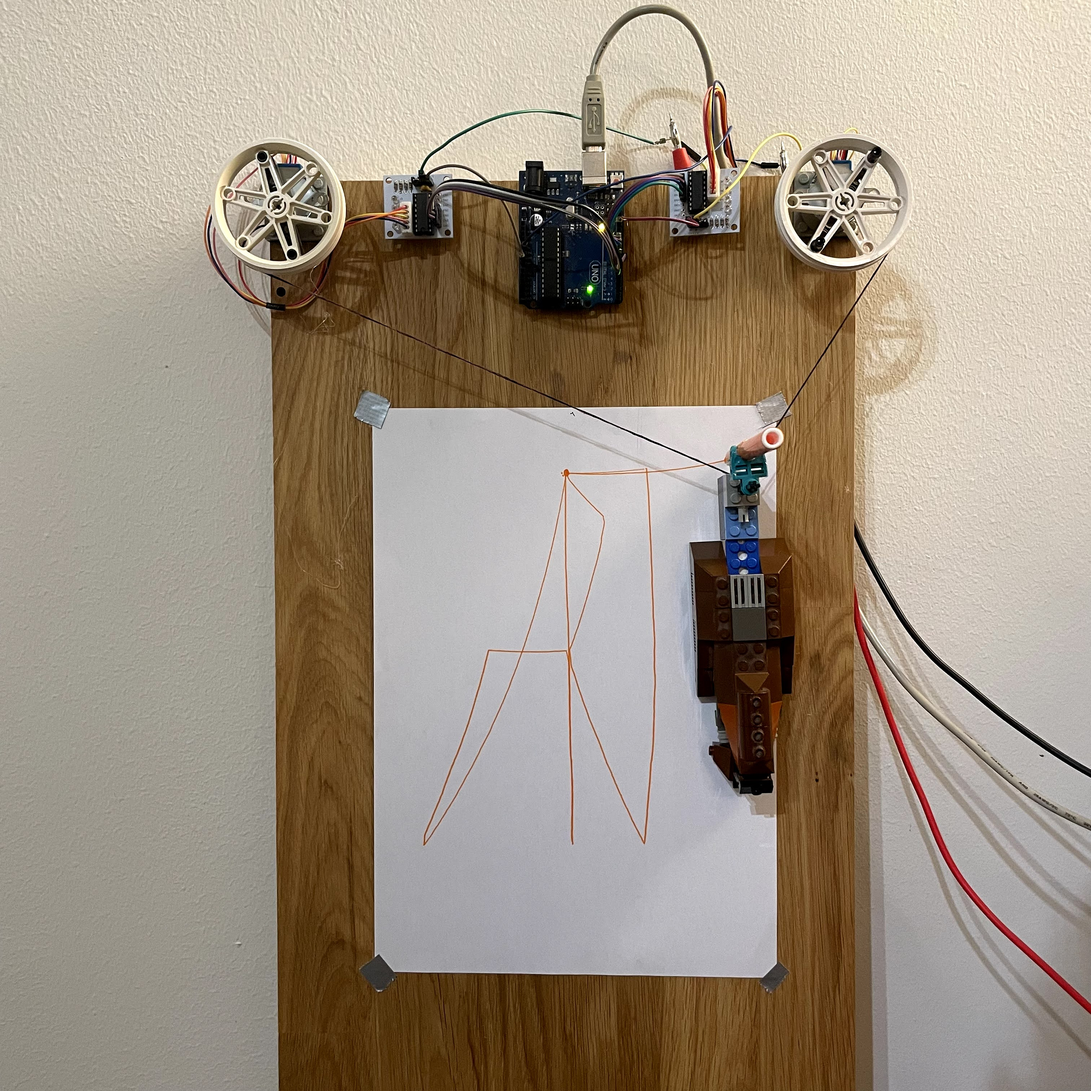
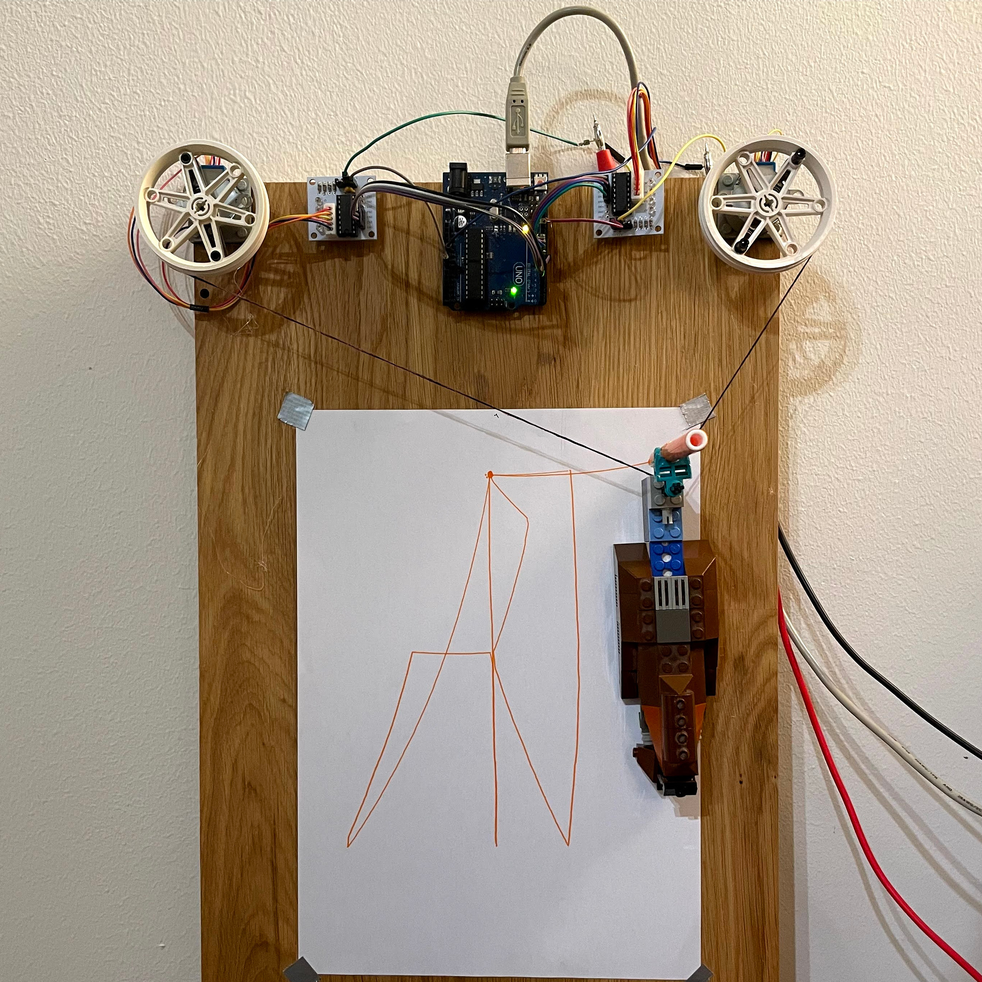
update line plotter post

diff --git a/src/App.tsx b/src/App.tsx
@@ -25,6 +25,8 @@ import apples1 from './img/apples1.jpg'
 import apples2 from './img/apples2.jpg'
 import apples3 from './img/apples3.jpg'
 import robot from './img/robot.jpg'
+import robot1 from './img/robot1.jpg'
+import robot2 from './img/robot2.jpg'
 
 interface Link {
   text: string;
@@ -164,8 +166,8 @@ const App: React.FC = () => {
       <Grid posts={[
         {
           title: "Line plotter robot",
-          images: [robot],
-          intro: "Building a little line driven plotter robot from some steppers and old lego. All for the great art, and for learning some inverse kinematics.",
+          images: [robot, robot1, robot2],
+          intro: "Building a little line driven plotter robot from some steppers and old lego. And writing the inverse kinematics and hilbert curve based image processing pipeline to drive it as a weekend project with a friend.",
           links: [{text: "Source", url: "https://github.com/Demborg/line_plotter"}]
         },
         {
